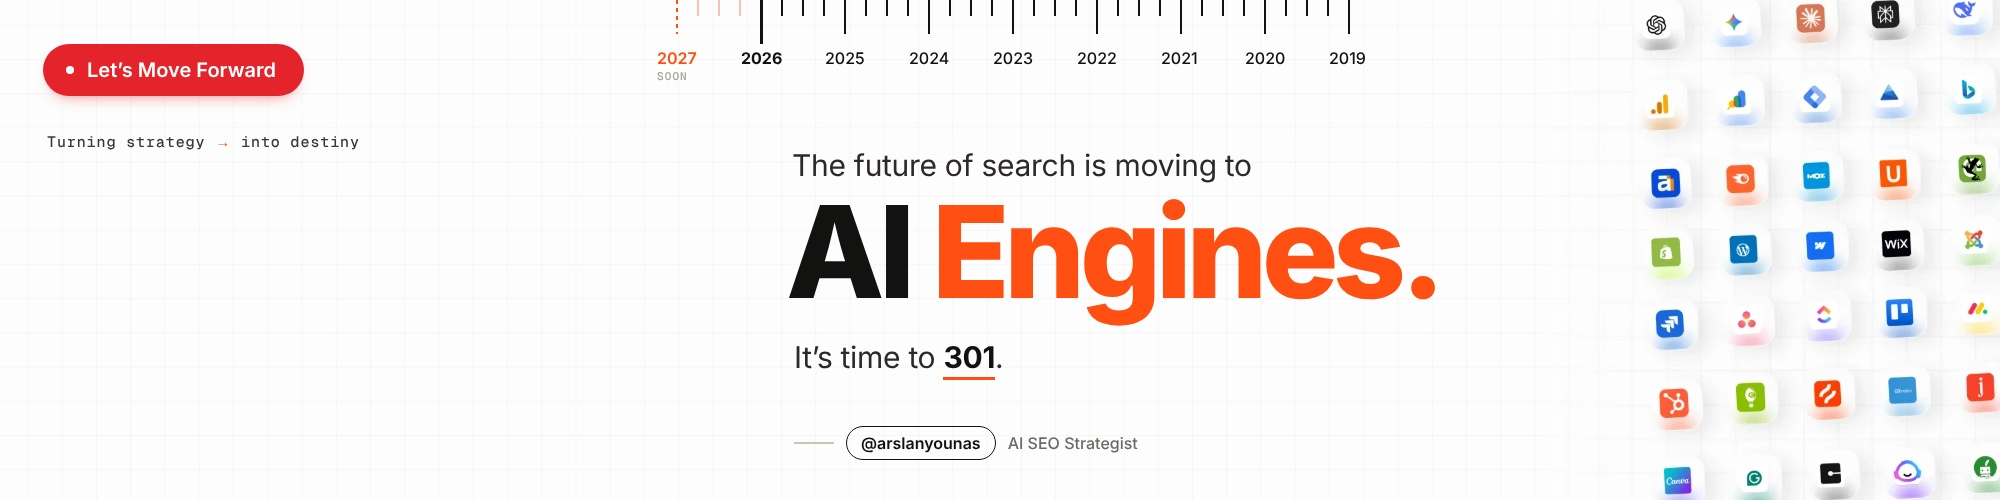
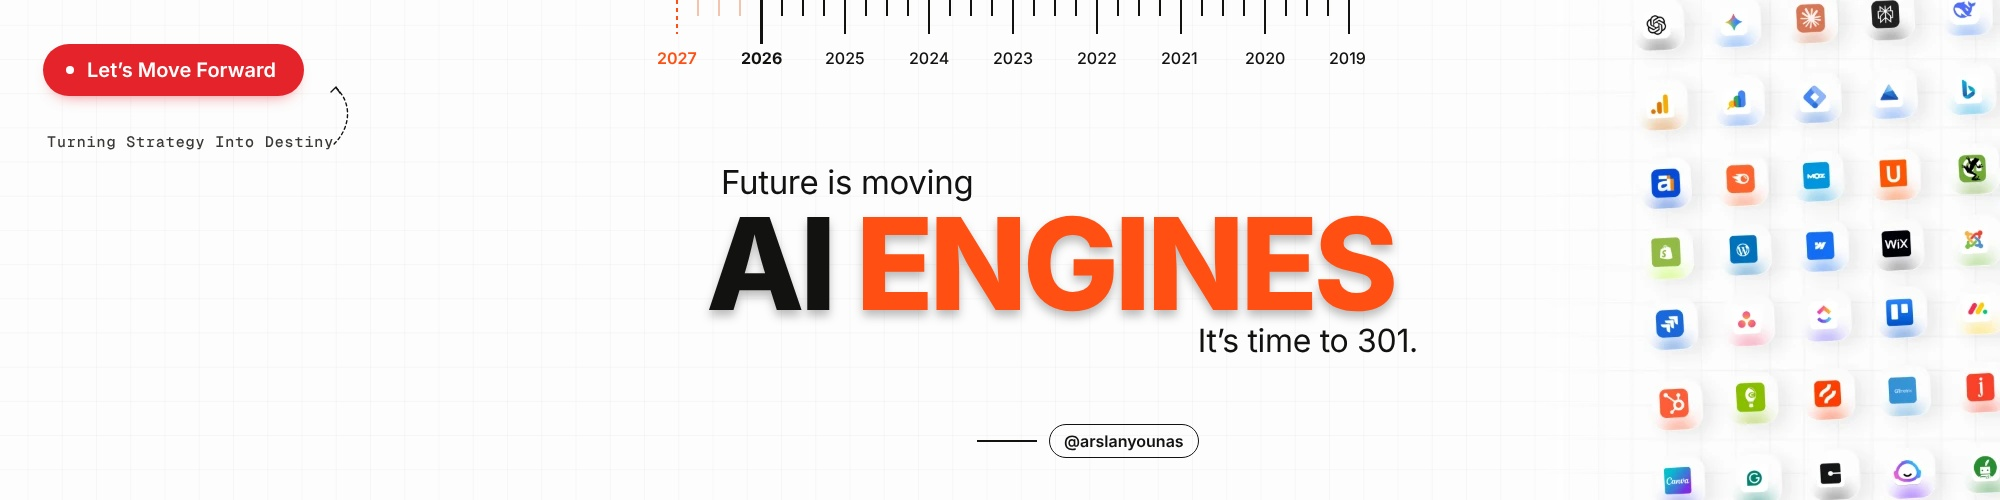
LinkedIn cover: original wording, placement and shadow restored
Claude-Session: https://claude.ai/code/session_01VBJH2upMVWksZtGWxkVbdV

diff --git a/linkedin-brand/cover.html b/linkedin-brand/cover.html
@@ -17,23 +17,23 @@ body{width:2000px;height:500px;overflow:hidden}
 .yr.now{font-weight:700}
 .yr.soon{color:#ff4f12;font-weight:600}
 .yr.soon small{display:block;margin-top:5px;font:500 11px/1 "Geist Mono";letter-spacing:.1em;text-transform:uppercase;color:#a3a19b}
-.pre{position:absolute;left:792px;top:150px;font:400 30px/1 Inter;color:#2b2a27;letter-spacing:-.01em}
-h1{position:absolute;left:786px;top:188px;font:800 128px/1 Inter;letter-spacing:-.045em;white-space:nowrap;color:#121211}
+.pre{position:absolute;left:721px;top:166px;font:400 33px/1 Inter;color:#121211;letter-spacing:-.01em}
+h1{position:absolute;left:706px;top:200px;font:800 128px/1 Inter;letter-spacing:-.035em;white-space:nowrap;color:#121211;filter:drop-shadow(0 6px 5px rgba(18,18,17,.28))}
 h1 span{color:#ff4f12}
-.post{position:absolute;left:794px;top:342px;font:400 30px/1 Inter;color:#2b2a27;letter-spacing:-.01em}
-.post b{font-weight:700;color:#121211;border-bottom:3px solid #ff4f12;padding-bottom:2px}
-.handle{position:absolute;left:794px;top:426px;display:flex;align-items:center;gap:12px;font:500 16px/1 Inter;color:#6b6a65}
-.handle i{width:40px;height:1.5px;background:#c9c4b8}
+.post{position:absolute;right:582px;top:325px;font:400 32px/1 Inter;color:#121211;letter-spacing:-.01em}
+.handle{position:absolute;left:977px;top:424px;display:flex;align-items:center;gap:12px;font:500 16px/1 Inter;color:#6b6a65}
+.handle i{width:60px;height:1.4px;background:#121211}
 .handle b{padding:8px 14px;border:1.5px solid #121211;border-radius:999px;color:#121211;font-weight:600}
 </style></head><body><div class="c">
 <div class="bg"></div>
 <div class="pill"><i></i>Let’s Move Forward</div>
-<div class="motto">Turning strategy <span>→</span> into destiny</div>
+<div class="motto">Turning Strategy Into Destiny</div>
+<svg style="position:absolute;left:326px;top:82px;width:30px;height:70px" viewBox="0 0 30 70" fill="none" stroke="#121211" stroke-width="1.4" stroke-dasharray="3 3" stroke-linecap="round"><path d="M10 6 C 26 20, 26 46, 6 64"/><path d="M5 10 L10 5 L14 11" stroke-dasharray="0"/></svg>
 <div class="ruler" id="ruler"></div>
-<div class="pre">The future of search is moving to</div>
-<h1>AI <span>Engines.</span></h1>
-<div class="post">It’s time to <b>301</b>.</div>
-<div class="handle"><i></i><b>@arslanyounas</b>AI SEO Strategist</div>
+<div class="pre">Future is moving</div>
+<h1>AI <span>ENGINES</span></h1>
+<div class="post">It’s time to 301.</div>
+<div class="handle"><i></i><b>@arslanyounas</b></div>
 </div>
 <script>
 var R=document.getElementById("ruler"),h="",gap=84,yrs=[2027,2026,2025,2024,2023,2022,2021,2020,2019],C=document.querySelector(".c");
@@ -41,6 +41,6 @@ for(var k=0;k<yrs.length;k++){var x=(k-1)*gap,st=k==0?'background:repeating-line
  h+='<span style="left:'+x+'px;'+st+'"></span>';
  if(k<yrs.length-1)for(var j=1;j<4;j++)h+='<span style="left:'+(x+j*gap/4)+'px;height:16px;'+(k==0?'background:#f2c3ad':'')+'"></span>';}
 R.innerHTML=h;
-yrs.forEach(function(y,k){var d=document.createElement("div");d.className="yr"+(k==0?" soon":k==1?" now":"");d.innerHTML=y+(k==0?"<small>soon</small>":"");d.style.left=(760+(k-1)*gap-19)+"px";C.appendChild(d)});
+yrs.forEach(function(y,k){var d=document.createElement("div");d.className="yr"+(k==0?" soon":k==1?" now":"");d.innerHTML=y;d.style.left=(760+(k-1)*gap-19)+"px";C.appendChild(d)});
 </script>
 </body></html>
